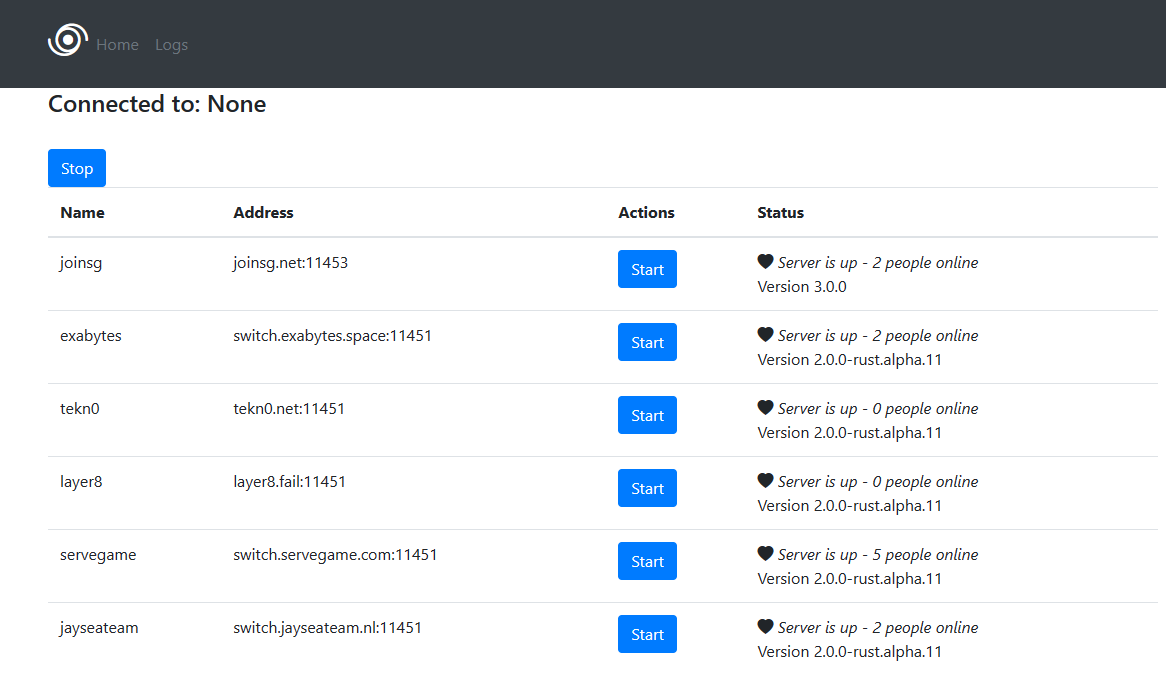
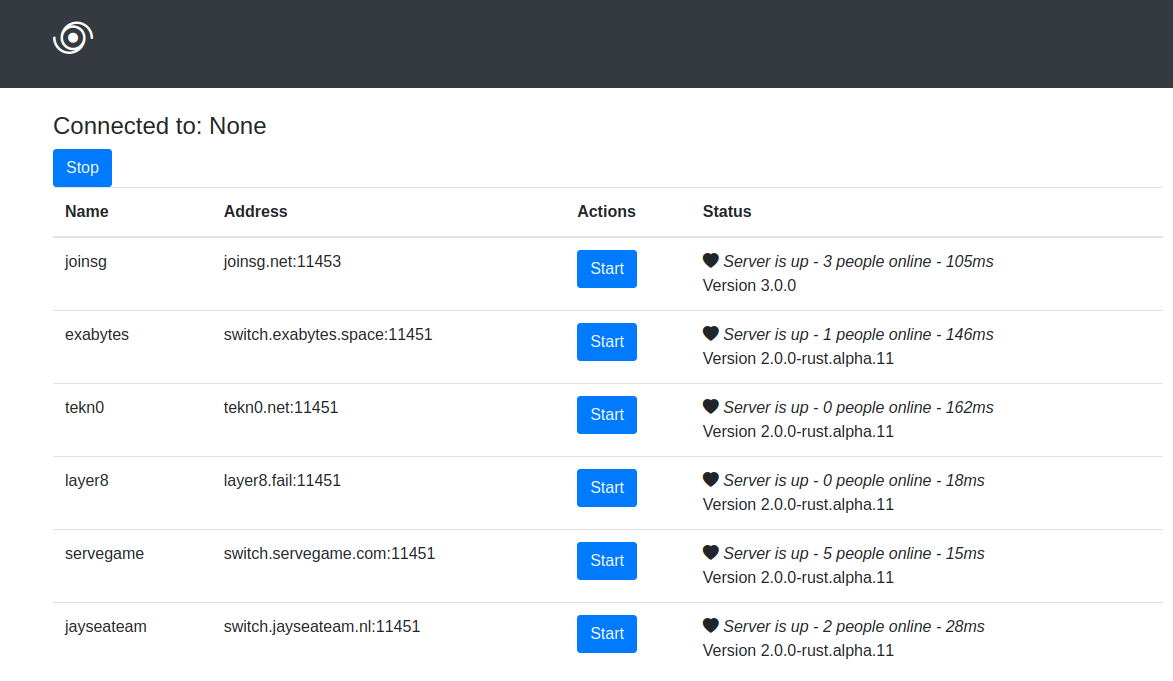
Add ping and change layout slightly

diff --git a/templates/index.html b/templates/index.html
@@ -1,8 +1,8 @@
 {% extends 'base.html' %}
 
 {% block content %}
-    <h4>Connected to: {{ runningServer }}</h4>
-    <br><a href="/stop">
+    <br><h4>Connected to: {{ runningServer }}</h4>
+    <a href="/stop">
     <button type="submit" name="serverAddr" class="btn btn-primary">Stop</button>
 </a> <br>
     <table class="table">
@@ -27,7 +27,7 @@
                 </td>
                 <td>
                     {% if server[2] == true %}
-                        <div><i class="bi bi-heart-fill"> Server is up - {{ server[3] }} people online</i></div>
+                        <div><i class="bi bi-heart-fill"> Server is up - {{ server[3] }} people online - {{ server[5] }}ms</i></div>
                         <div>Version {{ server[4] }}</div>
                     {% else %}
                         <div><i class="bi bi-heart-half"> Server is down</i></div>

diff --git a/templates/base.html b/templates/base.html
@@ -20,10 +20,10 @@
         <h1><i class="bi bi-tropical-storm"></i></h1>
       </a>
 
-      <ul class="nav col-8 col-lg-auto me-lg-auto mb-2 justify-content-center mb-md-0">
+<!--      <ul class="nav col-8 col-lg-auto me-lg-auto mb-2 justify-content-center mb-md-0">
         <li><a href="#" class="nav-link px-2 text-secondary">Home</a></li>
         <li><a href="#" class="nav-link px-2 text-secondary">Logs</a></li>
-      </ul>
+      </ul> -->
 
     </div>
   </div>

diff --git a/app.py b/app.py
@@ -6,6 +6,7 @@ import urllib.request
 from concurrent.futures import ThreadPoolExecutor
 import socket
 import logging
+import time
 
 app = Flask(__name__)
 app.config['SECRET_KEY'] = 'your secret key'
@@ -36,18 +37,21 @@ def check_server(server, address):
 	# check if the port is open
 	sock = socket.socket(socket.AF_INET, socket.SOCK_STREAM)
 	sock.settimeout(0.5)
+	start = time.time()
 	up = sock.connect_ex((split_addr[0], int(split_addr[1]))) == 0
+	end = time.time()
+	ping = round((end - start)*1000)
 	sock.close()
 
 	if up:
-		app.logger.info(f"{address}: port is open")
+		app.logger.info(f"{address}: port is open - {ping}ms")
 		# get online count
 		data = urllib.request.urlopen(f"http://{address}/info").read()
 	else:
 		app.logger.info(f"{address}: port is closed")
 		return [server, address, up]
 
-	return [server, address, up, json.loads(data)["online"], json.loads(data)["version"]]
+	return [server, address, up, json.loads(data)["online"], json.loads(data)["version"], ping]
 
 
 def getServers():
